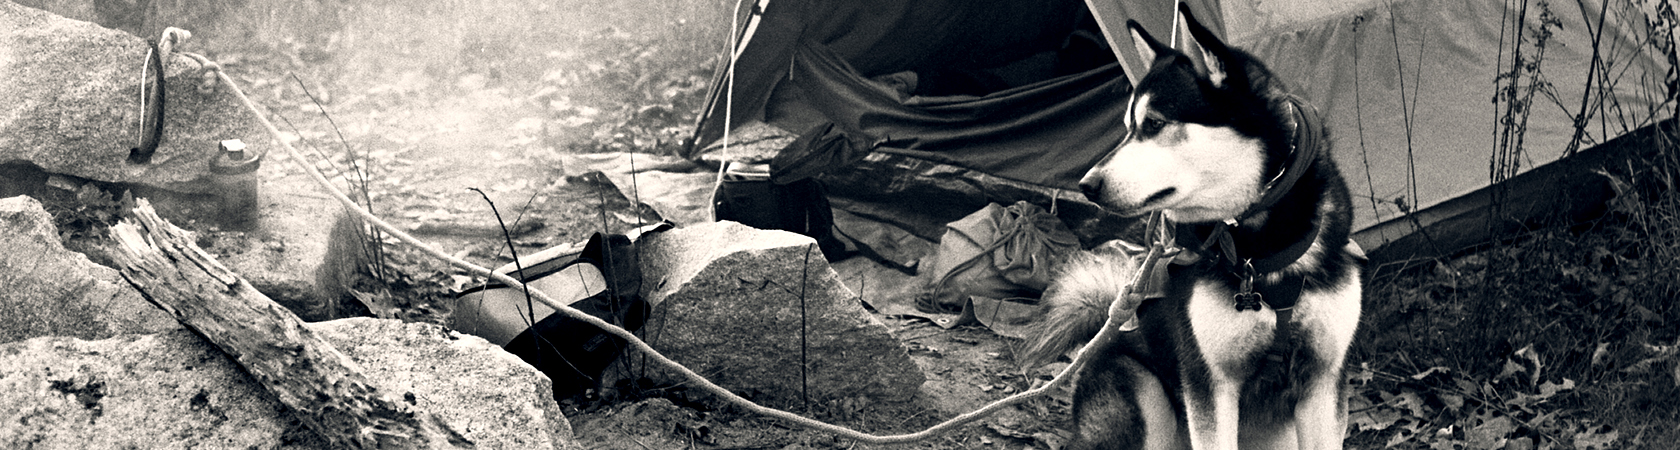
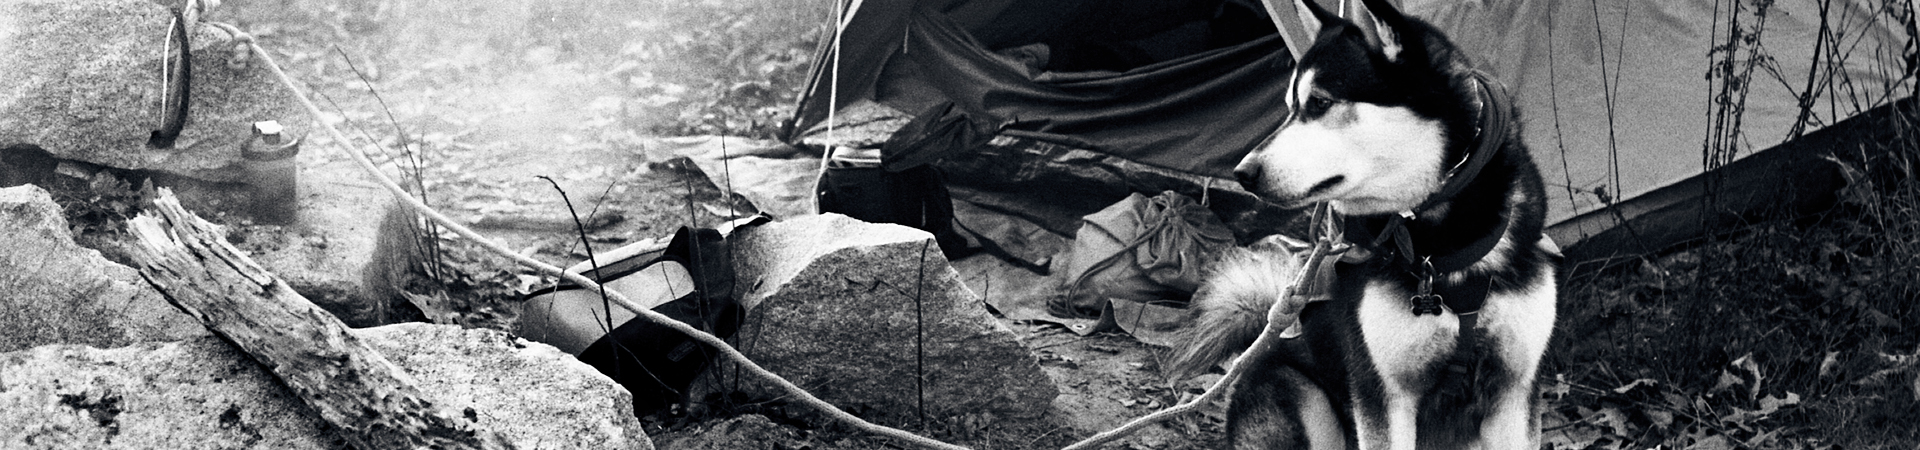
Made site.cover scale correctly for mobile

diff --git a/css/main.sass b/css/main.sass
@@ -73,6 +73,9 @@ body
     bottom: 0
     z-index: 1
     text-indent: -9999px
+    @media (max-width: 1220px)
+      background-position: right
+      right: -355px
 
 .blog-header
   width: 100%
@@ -535,6 +538,7 @@ body
       color: #333
 
 .bottom-closer
+  height: 450px
   width: 100%
   position: relative
   overflow: hidden
